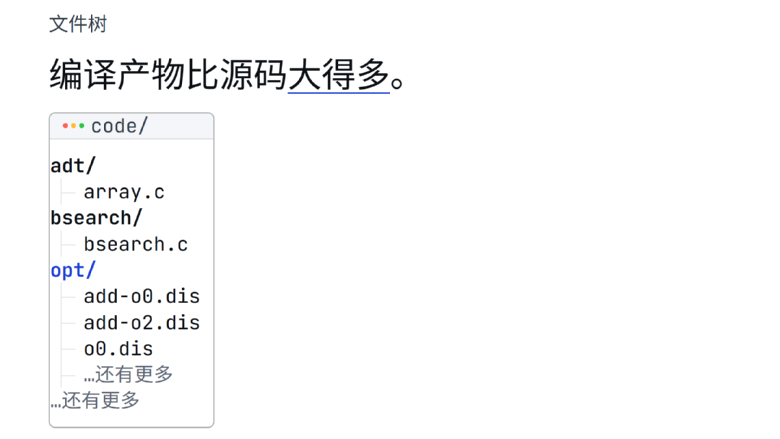
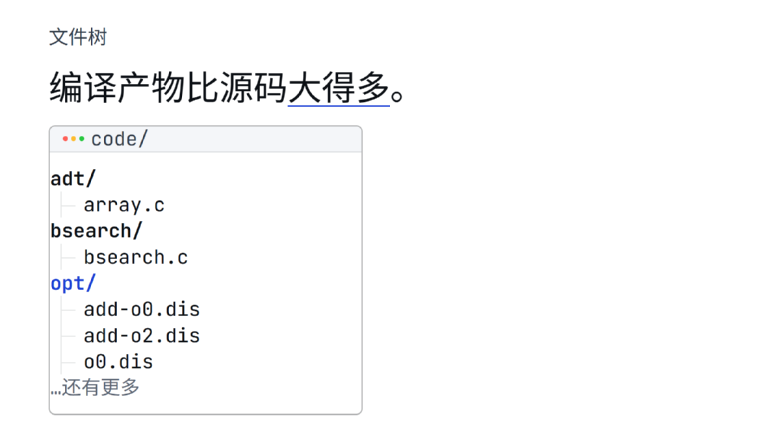
容量按实测收紧：代码 6 行、表 4 行、树 8 行；文件树给到半版宽
- 之前契约里的 8/5/10 是估的，实测带标题块时放不下；改成实测量
- 树只留一行「还有更多」，不再每层各留一行
- 有序列表序号、时间线日期提到第二档墨；位序号加气口

Changed region(s): [[0.0615, 0.0296, 0.5231, 0.9772], [0.2462, 0.3257, 0.2769, 0.3554]]

diff --git a/src/components.css b/src/components.css
@@ -554,7 +554,7 @@ vk-list[variant='ordered'] { counter-reset: vk-li; }
 vk-list[variant='ordered'] li { counter-increment: vk-li; }
 vk-list[variant='ordered'] li::before {
   content: counter(vk-li) '.';
-  color: var(--vk-ink-3);
+  color: var(--vk-ink-2);
   font-variant-numeric: tabular-nums;
 }
 vk-list[variant='check'] li::before {
@@ -565,6 +565,9 @@ vk-list[variant='check'] li::before {
 vk-list li[state='current'] { color: var(--vk-focus); }
 
 /* ------------------------------------------------------------------ 文件树 */
+vk-tree .vk-win {
+  min-width: calc(var(--vk-safe-w) * 0.46);
+}
 vk-tree {
   display: block;
   min-width: 0;

diff --git a/docs/START.md b/docs/START.md
@@ -45,7 +45,7 @@ vk doc    vk-code                 # 一个件的属性表；全部契约看 docs
 
 1. **一帧一件事**。装不下就是这一帧讲多了：拆帧，不是缩字。
 2. **标题一行 12 字**（`headline`）。超过就换 `subhead`，或者拆成两行。
-3. **一帧 8 行预算**。代码 8 行、表 5 行、树 10 行、cells 2 行——见 `RULES.md`。
+3. **一帧 8 行预算**。代码 6 行、表 4 行、树 8 行、cells 2 行——见 `RULES.md`。
 4. **一个焦点**。`current`、`em`、`tone="focus"` 加起来，一帧只该有一处「看这里」。
 5. **不要手写 `style`**。字号/行高/颜色只走 `size` / `ink` / `weight`，构建期会拦。
 6. **结论用 `body`，不要用 `caption`**。`caption` 是元信息（来源、单位、编号），手机 19.5px。
@@ -55,3 +55,4 @@ vk doc    vk-code                 # 一个件的属性表；全部契约看 docs
 - 每个件的属性、默认值、一帧容量：`docs/CONTRACT.md`（生成物，别手改）
 - 容量、选件、颜色语义、深色页：`docs/RULES.md`
 - 12 个会静默出错的坑：`docs/PITFALLS.md`
+

diff --git a/docs/RULES.md b/docs/RULES.md
@@ -9,10 +9,10 @@
 
 | 件 | 一帧最多 | 备注 |
 |---|---|---|
-| `vk-code` / `vk-diff` / `vk-asm` | 8 行 | 再多会缩到 44px 地板，然后被裁（自检会报） |
-| `vk-term` | 10 行 | 终端行高比代码小 |
-| `vk-table` | 5 行 | 表头另算 |
-| `vk-tree` | 10 行 | 超了末尾留一行「…还有更多」 |
+| `vk-code` | 6 行 | 再多会缩到 44px 地板，然后被裁（自检会报） |
+| `vk-term` | 7 行 | 终端行高比代码小 |
+| `vk-table` | 4 行 | 表头另算 |
+| `vk-tree` | 8 行 | 超了末尾留一行「…还有更多」 |
 | `vk-cells` | 2 行 | `cols=4` 时 8 格 |
 | `vk-steps` | 5 步 | 横排；再长换 `direction="vertical"` |
 | `vk-bars` | 6 条 | |

diff --git a/docs/CONTRACT.md b/docs/CONTRACT.md
@@ -8,12 +8,12 @@
 | 项 | 一帧最多 |
 |---|---|
 | 行级单元（合计） | 8 |
-| 代码行 | 8 |
-| 终端行 | 10 |
-| diff 行 | 8 |
-| 汇编行 | 8 |
-| 表格数据行 | 5 |
-| 文件树行 | 10 |
+| 代码行 | 6 |
+| 终端行 | 7 |
+| diff 行 | 5 |
+| 汇编行 | 5 |
+| 表格数据行 | 4 |
+| 文件树行 | 8 |
 | 内存格行 | 2 |
 | 位 | 16 |
 | 步骤（横排） | 5 |
